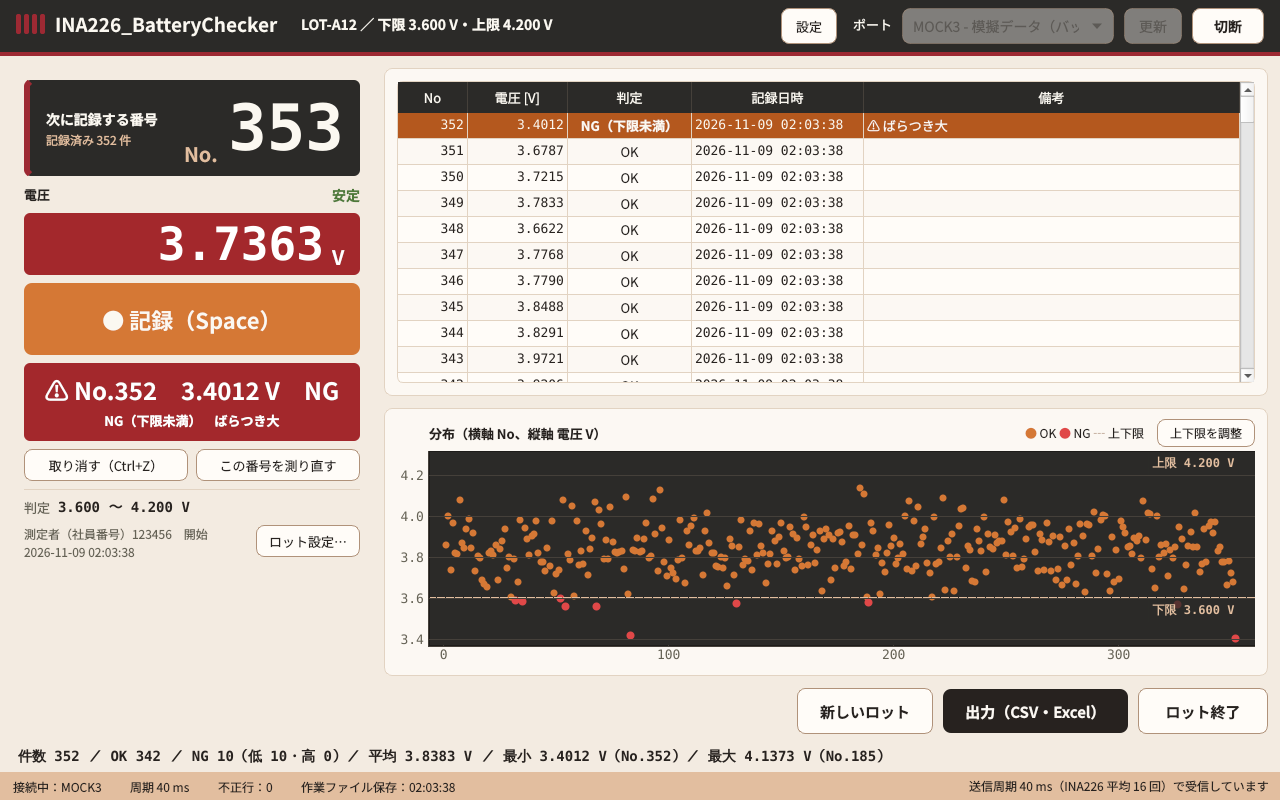
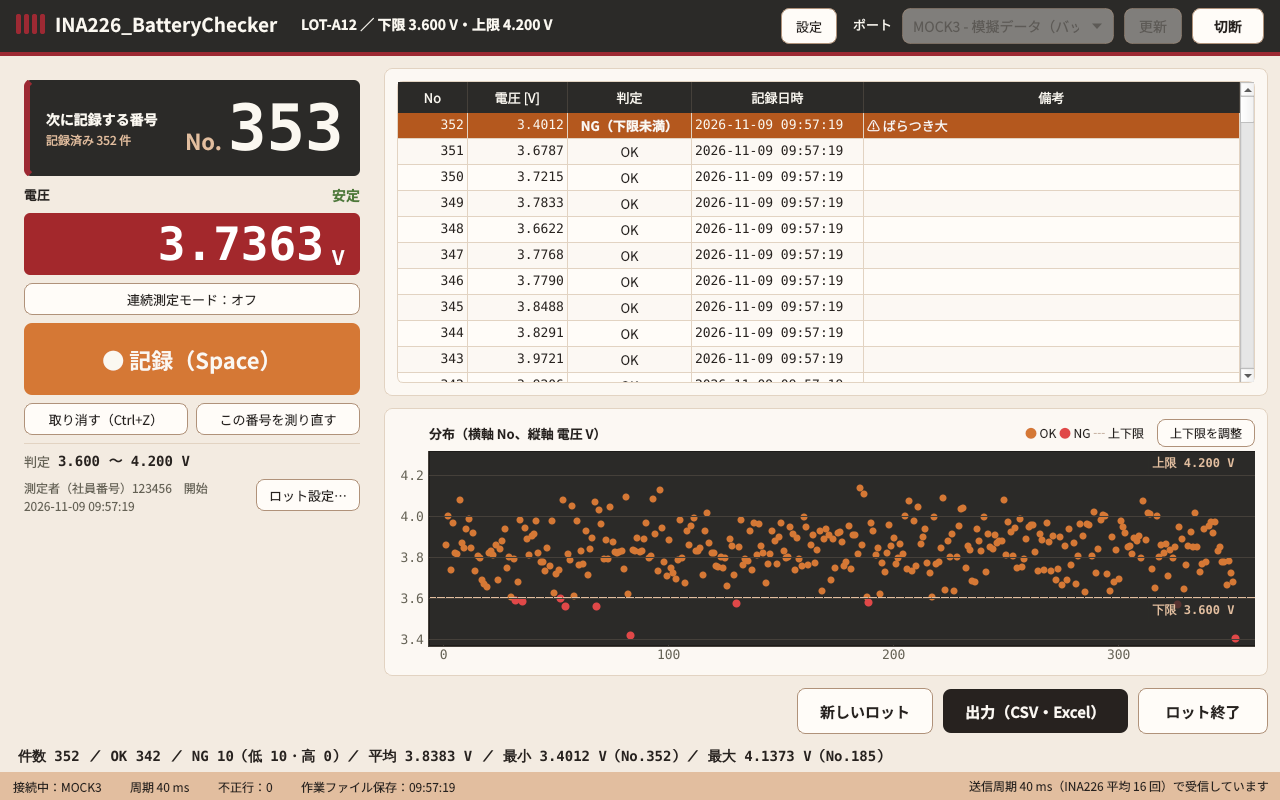
Remove the "previous result" box from the left panel
The same information is already on screen: the record is the top row of
the table and the status bar says "No.12 を記録しました（3.8125 V OK）"
(NG now in red); measuring / NG-pending show in the state label; the
remeasure target shows on the number card. Continuous-mode hints and
remeasure/undo notices move to the status bar.

Claude-Session: https://claude.ai/code/session_017w9UF8vd975PXdvssJUhCt

diff --git a/battery_checker/gui/main_window.py b/battery_checker/gui/main_window.py
@@ -48,7 +48,6 @@ from ..records import (
     DATETIME_FMT,
     Measurement,
     LotInfo,
-    Record,
     RecordBook,
     compute_stats,
     judge,
@@ -92,14 +91,6 @@ STATE_TEXT = {
 
 _TEXT_INPUTS = (QLineEdit, QPlainTextEdit, QTextEdit, QAbstractSpinBox)
 _RECORD_KEYS = (Qt.Key_Space, Qt.Key_Return, Qt.Key_Enter)
-
-
-def _repolish(w: QWidget) -> None:
-    w.style().unpolish(w)
-    w.style().polish(w)
-    for child in w.findChildren(QWidget):
-        child.style().unpolish(child)
-        child.style().polish(child)
 
 
 class MainWindow(QMainWindow):
@@ -307,23 +298,6 @@ class MainWindow(QMainWindow):
             b.setMinimumWidth(0)
         self.record_button.setFixedHeight(72)
         lay.addWidget(self.record_button)
-
-        # 5. 直前の結果
-        self.result_box = QFrame()
-        self.result_box.setObjectName("resultBox")
-        rl = QVBoxLayout(self.result_box)
-        rl.setContentsMargins(12, 8, 12, 8)
-        rl.setSpacing(2)
-        self.result_main = FitLabel(ui_font(24, bold=True), min_px=14)
-        self.result_main.setAlignment(Qt.AlignCenter)
-        self.result_sub = QLabel()
-        self.result_sub.setFont(ui_font(13, bold=True))
-        self.result_sub.setAlignment(Qt.AlignCenter)
-        self.result_sub.setWordWrap(True)
-        rl.addWidget(self.result_main)
-        rl.addWidget(self.result_sub)
-        self.result_box.setMinimumHeight(78)
-        lay.addWidget(self.result_box)
 
         # 6. 取り消し・測り直し
         row = QHBoxLayout()
@@ -540,7 +514,6 @@ class MainWindow(QMainWindow):
             self.plot.set_limits(lot.lower_V, lot.upper_V)
             self.table.select_no(book.last.no if book.last else None)
         self._refresh_records()
-        self._show_result(None)
         self._update_buttons()
         self._update_status()
 
@@ -549,29 +522,6 @@ class MainWindow(QMainWindow):
         self._update_number()
         self.plot.refresh(book)
         self.summary_label.setText(summary_text(compute_stats(book.records)) if book else "")
-
-    def _show_result(self, rec: Record | None, sub: str = "", main: str | None = None, judge: str = "") -> None:
-        if rec is not None:
-            mark = "⚠ " if rec.has_warning else ""
-            ok_text = "OK" if rec.judge.is_ok else "NG"
-            main = f"{mark}No.{rec.no}　{rec.voltage_V:.4f} V　{ok_text}"
-            judge = "ok" if rec.judge.is_ok else "ng"
-            notes = [] if rec.judge.is_ok else [rec.judge.label]
-            if rec.note:
-                notes.append(rec.note)
-            if sub:
-                notes.insert(0, sub)
-            sub = "　".join(notes)
-        if main is None:
-            if self.remeasure_no is not None:
-                main, sub = f"No.{self.remeasure_no} を測り直します", "そのバッテリを繋いで「記録」（やめるときは Esc）"
-            else:
-                main = "---"
-        self.result_main.setText(main)
-        self.result_sub.setText(sub)
-        if self.result_box.property("judge") != judge:
-            self.result_box.setProperty("judge", judge)
-            _repolish(self.result_box)
 
     # ================================================================ F-01 ポート・接続
     def refresh_ports(self) -> None:
@@ -754,8 +704,7 @@ class MainWindow(QMainWindow):
             self.set_message(MSG_NO_LOT, error=True)
             return
         if not self.monitor.connected:
-            self.set_message(MSG_NO_BATTERY, error=True)
-            self._show_result(None, main=MSG_NO_BATTERY, sub="バッテリを繋いでから記録してください")
+            self.set_message(f"{MSG_NO_BATTERY}。バッテリを繋いでから記録してください", error=True)
             return
         if (
             self.remeasure_no is None
@@ -776,7 +725,6 @@ class MainWindow(QMainWindow):
         """記録ボタンの後の 5 回測定を始める（手動・自動・もう一度測定で共用）。"""
         self._pressed_mono = time.monotonic()
         self.collector = SampleCollector(time.time(), self.monitor.threshold_V)
-        self._show_result(None, main="測定中…", sub="")
         self._update_display(force=True)
 
     # ---- 連続測定モード
@@ -792,7 +740,7 @@ class MainWindow(QMainWindow):
         self._update_buttons()
 
     def _show_continuous_hint(self) -> None:
-        """結果欄の下の行に、次にすることを出す（記録の結果の表示は残す）。"""
+        """連続測定モードで、次にすることをステータス欄に出す。"""
         if self.busy or self.remeasure_no is not None:
             return
         if self.monitor.connected and not self.monitor.detached_since_mark:
@@ -801,7 +749,7 @@ class MainWindow(QMainWindow):
             hint = "安定したら自動で記録します"
         else:
             hint = "次のバッテリを繋いでください"
-        self.result_sub.setText(hint)
+        self.set_message(f"連続測定モード：{hint}")
 
     def _try_auto_record(self) -> None:
         if not (self.continuous and self.reader is not None and self.lot is not None and not self.busy):
@@ -815,14 +763,12 @@ class MainWindow(QMainWindow):
     def _cancel_collect(self) -> None:
         if self.collector is not None:
             self.collector = None
-            self._show_result(None)
 
     def _finish_collect(self, res: CollectResult) -> None:
         self.collector = None
         if not res.ok:
             msg = res.failure.value
-            self.set_message(msg, error=True)
-            self._show_result(None, main="記録していません", sub=msg)
+            self.set_message(f"記録していません：{msg}", error=True)
             self._update_display(force=True)
             return
         lot = self.lot
@@ -831,7 +777,7 @@ class MainWindow(QMainWindow):
         if not rec.judge.is_ok and self.settings.confirm_ng:
             # NG：記録するか、もう一度測定するかを聞く。受信の処理（_poll）の中でウィンドウを出さないよう後で出す
             self._pending = (m, when)
-            self._show_result(None, main=f"NG　{m.median_V:.4f} V", sub=f"{rec.judge.label}　記録するか選んでください", judge="ng")
+            self.set_message(f"NG　{m.median_V:.4f} V（{rec.judge.label}）：記録するか選んでください", error=True)
             self._update_display(force=True)
             QTimer.singleShot(0, self._ask_ng)
             return
@@ -864,8 +810,7 @@ class MainWindow(QMainWindow):
             return
         # もう一度測定：記録せずに、繋いでいるバッテリをすぐ測り直す
         if self.reader is None or not self.monitor.connected:
-            self.set_message(MSG_NO_BATTERY, error=True)
-            self._show_result(None, main="記録していません", sub=MSG_NO_BATTERY)
+            self.set_message(f"記録していません：{MSG_NO_BATTERY}", error=True)
             self._update_display(force=True)
             return
         self.set_message(f"No.{no} をもう一度測定します")
@@ -897,13 +842,15 @@ class MainWindow(QMainWindow):
         saved = self.workfile.save(lot, book, appended=appended)
         self.last_save_s = time.monotonic() - t_save
         self.monitor.mark_recorded()
-        self._show_result(rec, sub=sub)
-        if self.continuous and not sub:
-            self.result_sub.setText("　".join(x for x in (self.result_sub.text(), "バッテリを外してください") if x))
         self.table.select_no(rec.no)
         self._refresh_records()
         if saved:
-            self.set_message(f"No.{rec.no} を記録しました（{rec.voltage_V:.4f} V　{rec.judge.label}）")
+            warn = f"　⚠ {rec.note}" if rec.note else ""
+            msg = f"No.{rec.no}：{sub}" if sub else f"No.{rec.no} を記録しました"
+            msg += f"（{rec.voltage_V:.4f} V　{rec.judge.label}）{warn}"
+            if self.continuous and not sub:
+                msg += "　バッテリを外してください"
+            self.set_message(msg, error=not rec.judge.is_ok)  # NG は赤字
         else:
             self.set_message(f"{MSG_WORKFILE_ERROR}（{self.workfile.csv_path}）", error=True)
         self._update_display(force=True)
@@ -939,9 +886,8 @@ class MainWindow(QMainWindow):
         self.monitor.detached_since_mark = True
         self.table.select_no(self.book.last.no if self.book.last else None)
         self._refresh_records()
-        self._show_result(None, main=f"No.{last.no} を取り消しました", sub=f"次は No.{self.book.next_no}")
         if not (self.workfile and self.workfile.dirty):
-            self.set_message(f"No.{last.no} を取り消しました")
+            self.set_message(f"No.{last.no} を取り消しました（次は No.{self.book.next_no}）")
         self._update_display(force=True)
 
     # ================================================================ F-07 測り直し
@@ -960,8 +906,7 @@ class MainWindow(QMainWindow):
         if self.book is None or self.book.get(no) is None:
             return
         self.remeasure_no = no
-        self._show_result(None)
-        self.set_message(f"No.{no} を測り直します")
+        self.set_message(f"No.{no} を測り直します：そのバッテリを繋いで「記録」（やめるときは Esc）")
         self._update_buttons()
 
     def cancel_remeasure(self) -> None:
@@ -969,8 +914,7 @@ class MainWindow(QMainWindow):
             return
         no = self.remeasure_no
         self.remeasure_no = None
-        self._show_result(None, main=f"No.{no} の測り直しをやめました")
-        self.set_message("")
+        self.set_message(f"No.{no} の測り直しをやめました")
         self._update_buttons()
 
     # ================================================================ F-02 ロット

diff --git a/tests/test_gui.py b/tests/test_gui.py
@@ -145,7 +145,7 @@ def test_ac04_no_battery_does_not_record(make_window, qapp):
     assert not w.record_button.isEnabled()
     QTest.keyClick(w, Qt.Key_Space)
     assert w.collector is None and len(w.book) == 0
-    assert w.msg_label.text() == MSG_NO_BATTERY
+    assert w.msg_label.text().startswith(MSG_NO_BATTERY)
     assert w.state_label.text() == "バッテリ未接続"
 
 
@@ -264,7 +264,7 @@ def test_undo_and_remeasure(make_window, qapp):
     w.table.select_no(1)
     assert w.remeasure_button.isEnabled()
     w.on_remeasure()
-    assert w.remeasure_no == 1 and w.result_main.text() == "No.1 を測り直します"
+    assert w.remeasure_no == 1 and w.msg_label.text().startswith("No.1 を測り直します")
     # 測り直し中は番号カードが「測り直す番号」に変わり、次の番号は変わらない
     assert w.number_card.number == "1" and w.number_card.property("mode") == "remeasure"
     assert w.number_card.caption_label.text() == "測り直す番号"
@@ -714,7 +714,7 @@ def test_continuous_mode_waits_for_removal(make_window, qapp):
     assert wait_until(qapp, lambda: len(w.book) == 1, 5.0)
     wait(qapp, 1.5)
     assert len(w.book) == 1
-    assert "バッテリを外してください" in w.result_sub.text()
+    assert "バッテリを外してください" in w.msg_label.text()
 
 
 def test_continuous_mode_off_on_disconnect(make_window, qapp):

diff --git a/README.md b/README.md
@@ -17,7 +17,7 @@
 3. 「新しいロット」→ ロット名・測定者の社員番号・下限・上限・開始番号を入れて「開始」（前回の値が入っています）。
    測定者は名前ではなく**社員番号**（半角の英数字とハイフン、20 文字まで）を入れます。全角で打った数字は半角に直します
 4. 左上の大きな番号（次に記録する番号）を確かめ、バッテリを INA226 の測定端子に繋ぐ → 電圧の横が「安定」になったら **Space**（または Enter、「● 記録」ボタン）
-5. `No.12　3.8125 V　OK` のように結果が大きく出ます（OK は緑、NG は赤。⚠ はばらつき大）。バッテリを外して次へ
+5. 結果は一覧の一番上の行と、ステータス欄（右下）に「No.12 を記録しました（3.8125 V　OK）」と出ます（NG は赤字。⚠ はばらつき大）。バッテリを外して次へ
    NG のときは「NG です：No.12　3.4012 V（下限未満。下限 3.600 V）」という注意ウィンドウが出ます。
    「記録する」（Enter）で NG として記録、「もう一度測定」（Esc）で記録せずにその場で測り直します（また NG なら再び聞きます）
 6. 間違えたら「取り消す」（**Ctrl+Z**。最後の 1 件を取り消す）、または一覧で番号を選んで「この番号を測り直す」→ そのバッテリを繋いで記録（やめるときは Esc）
